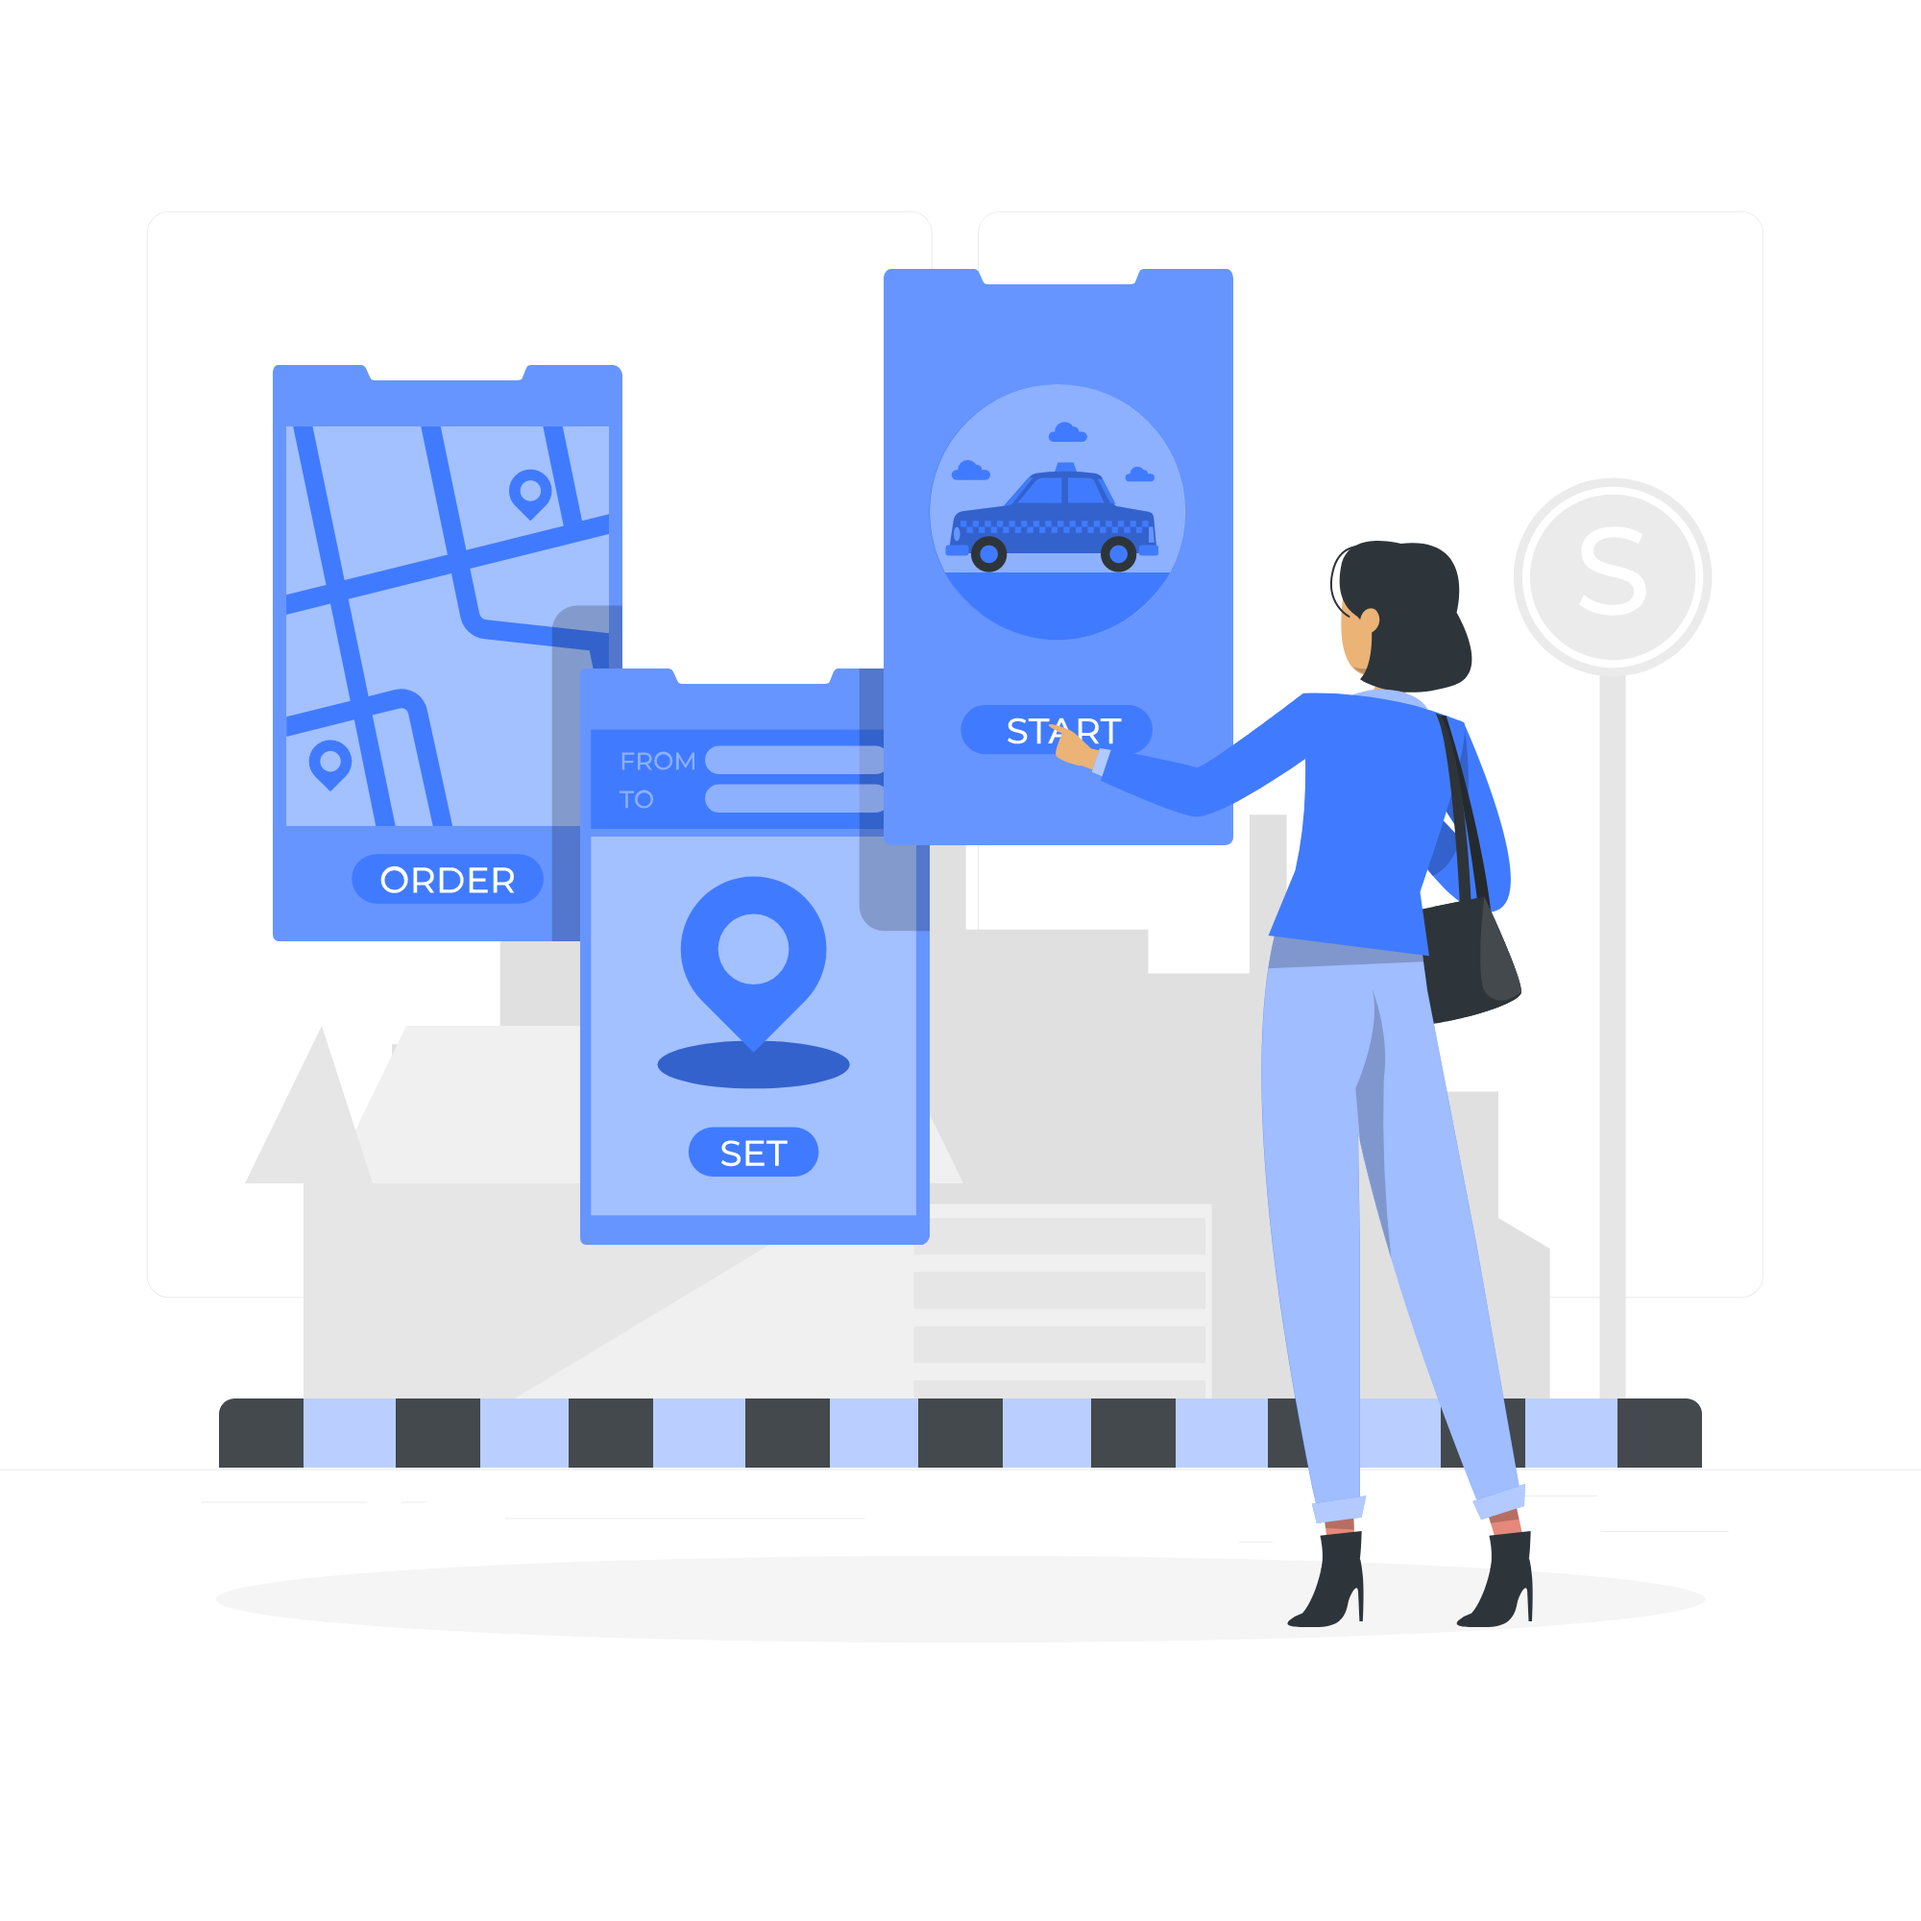
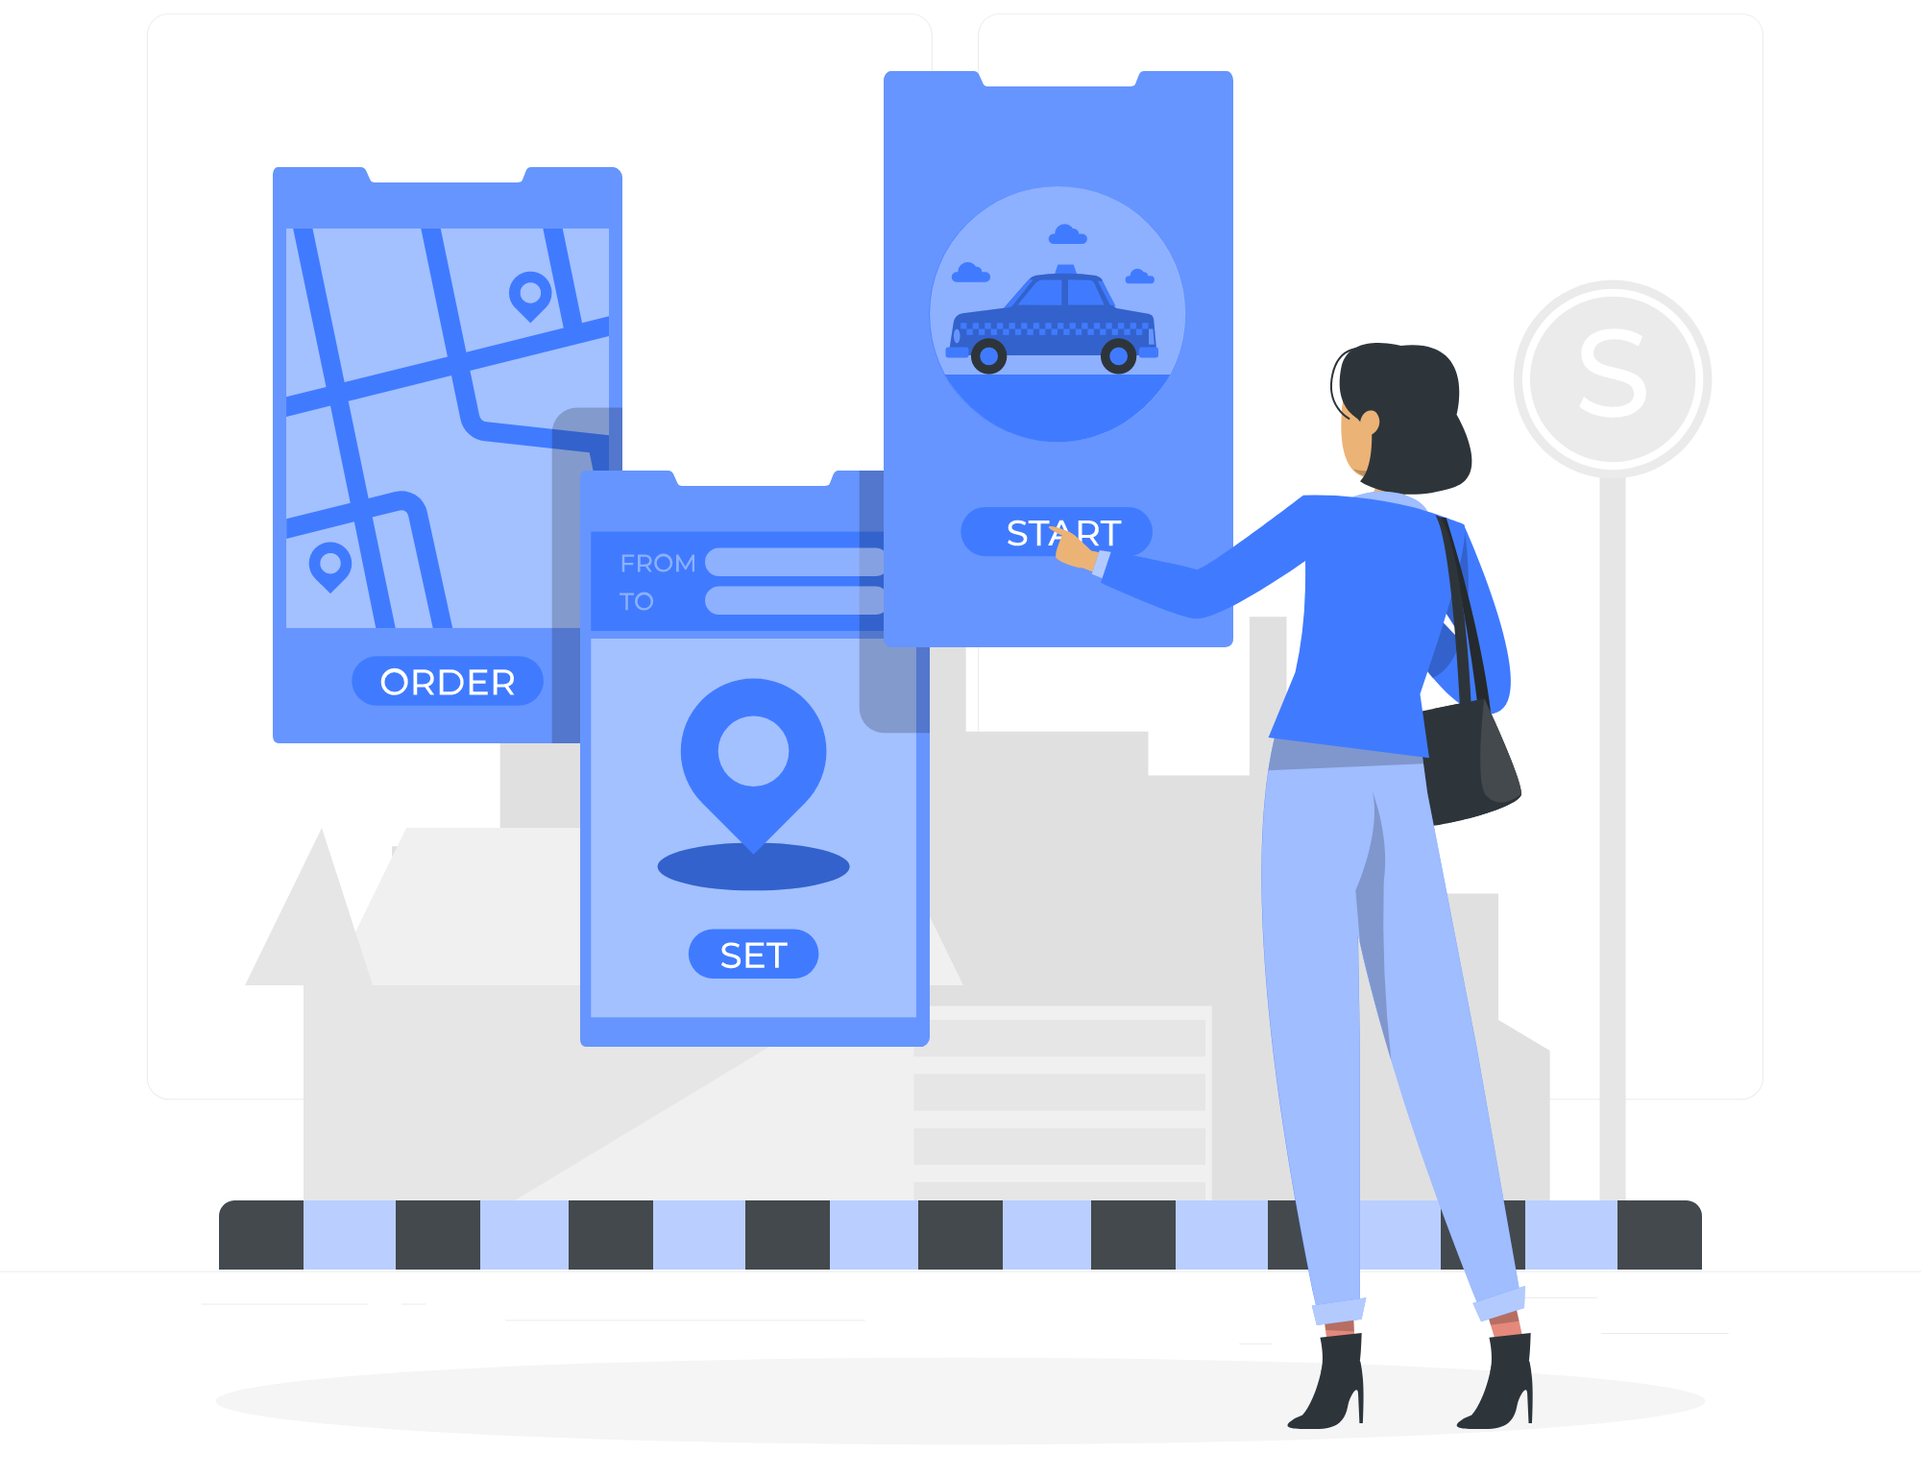
Atualização User Page v1
Atualização de responsividade, design, remodelagem do footer, e da responsividade do nav

Changed region(s): [[0.093, 0.0312, 0.899, 0.9675]]

diff --git a/user.php b/user.php
@@ -1,0 +1,361 @@
+<!DOCTYPE html>
+<html lang="pt-br">
+
+<head>
+  <meta charset="utf-8" />
+  <meta name="viewport" content="width=device-width, initial-scale=1, shrink-to-fit=no" />
+  <meta name="description" content="" />
+  <meta name="author" content="" />
+  <title>UpDown</title>
+  <link rel="icon" type="image/x-icon" href="assets/updown-logo.ico" />
+  <!-- Bootstrap icons-->
+  <link href="https://cdn.jsdelivr.net/npm/bootstrap-icons@1.5.0/font/bootstrap-icons.css" rel="stylesheet" />
+  <!-- Core theme CSS (includes Bootstrap)-->
+  <link href="css/styles.css" rel="stylesheet" />
+
+  <script src="https://code.jquery.com/jquery-3.2.1.slim.min.js" integrity="sha384-KJ3o2DKtIkvYIK3UENzmM7KCkRr/rE9/Qpg6aAZGJwFDMVNA/GpGFF93hXpG5KkN" crossorigin="anonymous"></script>
+<script src="https://cdnjs.cloudflare.com/ajax/libs/popper.js/1.12.9/umd/popper.min.js" integrity="sha384-ApNbgh9B+Y1QKtv3Rn7W3mgPxhU9K/ScQsAP7hUibX39j7fakFPskvXusvfa0b4Q" crossorigin="anonymous"></script>
+<script src="https://maxcdn.bootstrapcdn.com/bootstrap/4.0.0/js/bootstrap.min.js" integrity="sha384-JZR6Spejh4U02d8jOt6vLEHfe/JQGiRRSQQxSfFWpi1MquVdAyjUar5+76PVCmYl" crossorigin="anonymous"></script>
+</head>
+
+<style>
+  html,
+  body {
+    margin: 0;
+    padding: 0;
+    overflow-x: hidden;
+  }
+
+  .btnMotor:hover {
+    background-color: rgba(51, 190, 236, .5);
+  }
+
+  .masthead {
+
+    background-image: url("assets/img/logo/logo_af.png");
+  }
+
+  .apresentacao {
+    margin-left: 30px;
+  }
+  .TituloHeader {
+    font-size: 30%;
+  }
+
+  /* Responsividade */
+  @media (min-width: 360px) {
+    .apresentacao {
+      text-align: center;
+      margin-top: -25%;
+      z-index: 2;
+    }
+
+    .motorista {
+      padding: 15%;
+      margin-top: 135%;
+      position: absolute;
+    }
+  }
+
+  @media (min-width: 768px) {
+    .apresentacao {
+      margin-top: -10%;
+    }
+
+    .motorista {
+      margin-top: 20.8%;
+    }
+  }
+
+  @media (min-width: 992px) {
+    .apresentacao {
+      margin-top: 0;
+      margin-left: 3%;
+    }
+
+    .motorista {
+      margin-top: 2.6%;
+    }
+  }
+
+  @media (min-width: 1280px) and (max-width: 1365px) {
+
+    .apresentacao {
+      margin-top: 0;
+      margin-left: 3%;
+    }
+
+    .motorista {
+      margin-top: 17.1%;
+      margin-left: 30%;
+    }
+  }
+
+  @media (max-width: 1366px) {
+    .apresentacao {
+      margin-top: 0;
+      margin-left: 3%;
+    }
+
+    .motorista {
+      margin-top: 22.4%;
+      margin-left: 25%;
+    }
+  }
+
+
+</style>
+
+<body id="page-top">
+  <!-- Navigation-->
+   <nav class="navbar navbar-expand-lg navbar-light fixed-top shadow-lg-white" id="mainNav"> 
+    <div class="container px-3">
+      <a class="navbar-brand fw-bold upFont LogoTitleColor" href="index.php">
+        <img src="assets/img/logo/logoUpDown.png" id="logo" />
+        UpDown</a>
+      <button class="navbar-toggler" type="button" data-bs-toggle="collapse" data-bs-target="#navbarResponsive" aria-controls="navbarResponsive" aria-expanded="false" aria-label="Toggle navigation">
+        Menu
+        <i class="bi-list"></i>
+      </button>
+      <div class="collapse navbar-collapse" id="navbarResponsive">
+        <ul class="navbar-nav ms-auto me-4 my-3 my-lg-0">
+          <li class="nav-item">
+            <a class="nav-link me-lg-3" href="#motivo">Porque usar Updown</a>
+          </li>
+          <li class="nav-item">
+            <a class="nav-link me-lg-3" href="#categorias">Conheça as Modalidades</a>
+          </li>
+          <li class="nav-item">
+            <a class="nav-link me-lg-3" href="#footer">Baixe Agora</a>
+          </li>
+        </ul>
+        <!--<button class="btn btn-primary rounded-pill px-3 mb-2 mb-lg-0" data-bs-toggle="modal" data-bs-target="#feedbackModal">
+                        <span class="d-flex align-items-center">
+                            <i class="bi-chat-text-fill me-2"></i>
+                            <span class="small">Seja um Motorista!</span>
+                        </span>
+                    </button>-->
+      </div>
+    </div>
+  </nav>
+
+  <!-- Mashead header-->
+  <header class="masthead bg-gradient-blueUser text-center text-white" >
+    <div class="container" style=" padding-left: var(--bs-gutter-x, 1.75rem) !important;padding-right: var(--bs-gutter-x, 1.75rem) !important;">
+      <div class="row align-items-center justify-content-center">
+      <div class="col-12 col-lg-6 ">
+          <!-- Textos-->
+          <div class="mb-lg-0 text-start">
+            <h1 class="display-5 lh-1 mb-4 upFont">Faça entregas rápidas com a Updown!!</h1>
+            <p class="lead fw-light mb-5">
+            Aceitamos o envio de produtos de pequeno à grande porte
+          </p>
+          </div>
+        </div>
+        <div class="col-sm-10 col-md-6 mb-5 mt-0">
+          <img src="assets/img/users/userHeader.png" alt="Usuariosinho" style="max-width: 70%; max-height: 100%" />
+        </div>  
+      </div>
+    </div>
+  </header>
+
+  <!-- Carrossel -->
+  <div id="carouselUpdownUser" class="carousel slide carousel-fade p-5"  data-ride="carousel">
+    <!-- Imagens -->
+    <div class="carousel-inner p-5">
+      <!-- Primeira Imagem -->
+      <div class="carousel-item active" data-bs-interval="3000">
+        <img class="d-block w-100" src="assets/img/pitch/users/app01.jpg" alt="primeiro slide">
+      </div>
+      <!-- Segunda Imagem -->
+      <div class="carousel-item" data-bs-interval="3000">
+        <img class="d-block w-100" src="assets/img/pitch/users/app02.jpg" alt="segundo slide">
+      </div>
+      <!-- Terceira Imagem -->
+      <div class="carousel-item" data-bs-interval="3000">
+        <img class="d-block w-100" src="assets/img/pitch/users/app03.jpg" alt="terceiro slide">
+      </div>
+      <!-- quarta Imagem -->
+      <div class="carousel-item" data-bs-interval="3000">
+        <img class="d-block w-100" src="assets/img/pitch/users/app04.jpg" alt="quarto slide">
+      </div>
+      <!-- Quinta Imagem -->
+      <div class="carousel-item" data-bs-interval="3000">
+        <img class="d-block w-100" src="assets/img/pitch/users/app05.jpg" alt="Quinto slide">
+      </div>
+      <!-- Sexta Imagem -->
+      <div class="carousel-item" data-bs-interval="3000">
+        <img class="d-block w-100" src="assets/img/pitch/users/app06.jpg" alt="Sexto slide">
+      </div>
+      <!-- Sétima Imagem -->
+      <div class="carousel-item" data-bs-interval="3000">
+        <img class="d-block w-100" src="assets/img/pitch/users/app07.jpg" alt="Sétimo slide">
+      </div>
+      <!-- Oitava Imagem -->
+      <div class="carousel-item" data-bs-interval="3000">
+        <img class="d-block w-100" src="assets/img/pitch/users/app08.jpg" alt="oitavo slide">
+      </div>
+      <!-- Nona Imagem -->
+      <div class="carousel-item" data-bs-interval="3000">
+        <img class="d-block w-100" src="assets/img/pitch/users/app09.jpg" alt="nono slide">
+      </div>
+      <!-- Décima Imagem -->
+      <div class="carousel-item" data-bs-interval="3000">
+        <img class="d-block w-100" src="assets/img/pitch/users/app10.jpg" alt="Décimo slide">
+      </div>
+      <!-- Décima Primeira Imagem -->
+      <div class="carousel-item" data-bs-interval="3000">
+        <img class="d-block w-100" src="assets/img/pitch/users/app11.jpg" alt="Décimo Primeiro slide">
+      </div>      
+    </div>
+    <!-- Controladores -->
+    <!-- Anterior -->
+    <a class="carousel-control-prev" href="#carouselUpdownUser" role="button" data-slide="prev">
+      <span class="carousel-control-prev-icon" aria-hidden="true"></span>
+      <span class="sr-only"></span>
+    </a>
+    <!-- Próximo -->
+    <a class="carousel-control-next" href="#carouselUpdownUser" role="button" data-slide="next">
+      <span class="carousel-control-next-icon" aria-hidden="true"></span>
+      <span class="sr-only"></span>
+    </a>
+  </div>
+
+  <!-- Explicação -->
+  <div class="bg-gradient-white-to-gray ">
+    <div class="container p-5 text-muted " >
+      <!-- Preço Justo -->
+      <div class="row align-items-center justify-content-center" >
+        <div class="col-12 col-lg-6 h3 fw-light">
+          <p>Não se trata apenas de inovação, mas de acessibilidade para vocês. Com a gente, as entregas são mais
+            econômicas e seguras.</p>
+        </div>
+        <div class="col-sm-10 col-md-6 mb-5 mt-0" id="motivo">
+          <img src="assets/img/users/preco.png" alt="" style="max-width: 80%; margin-left: 50px">
+        </div>
+      </div>
+      <!-- Entregas Expressas -->
+      <div class="d-flex flex-column-reverse flex-lg-row  align-items-center justify-content-center" >
+        <div class="col-sm-10 col-md-6 mb-5 mt-0" >
+          <img src="assets/img/users/entregas_expressas.png" alt="" style="max-width: 80%; margin-left: 50px">
+        </div>
+        <div class="col-12 order-1 col-lg-6  h3 fw-light">
+          <p>Com a nossa frota de colaboradores, não precisa procurar por entregadores. Estaremos sempre disponíveis
+            para você com nossas entregas eficientes. </p>
+        </div>
+      </div>
+      <!-- Entregas Flexíveis -->
+      <div class="row align-items-center justify-content-center">
+        <div class="col-12 col-lg-6  h3 fw-light">
+          <p>Chega de problemas com frete. Com a gente não tem limite de carga, entregamos desde
+            envelope até mudança residencial.</p>
+        </div>
+        <div class="col-sm-10 col-md-6 mb-5 mt-0">
+          <img src="assets/img/users/entregas_flexiveis.png" alt="" style="max-width: 80%; margin-left: 50px">
+        </div>
+      </div>
+    </div>
+  </div>
+  <!-- Fim da Explicação -->
+
+  <!-- Categorias -->
+  <div class="
+  py-5
+  bg-darkBlue
+  text-light
+  " id="categorias">
+
+    <div class="py-3 mx-5">
+      <div class="row align-items-center justify-content-center">
+        <!-- Imagem Grandona -->
+        <div class="col-sm-10 col-md-6 mb-5 mt-0">
+          <img src="assets/img/users/categorias.png" alt="" 
+          style="max-width: 100%;">
+        </div>
+        <!-- Veículos -->
+        <div class="col-sm-6">
+          <!-- Moto -->
+          <div class="row px-3">
+            <p class="h4 upFont fw-bolder mb-0"><span>Moto</span></p>
+            <p><small class="h6 fw-light">Para pequenos produtos. Peça seu UpMoto para realizar as entregas mais rápidas do mercado, também
+                com a taxa de valor mais acessível.</small></p>
+          </div>
+          <!-- Carro -->
+          <div class="row px-3">
+            <p class="h4 upFont fw-bolder mb-0"><span>Carro</span></p>
+            <p><small class="h6 fw-light">Se seus produtos variam entre pequeno e médio porte, essa é a categoria ideal. Carros são
+                perfeitos para realizar uma entrega com maior segurança e lidar com materiais frágeis. Você pode
+                aproveitar para pedir uma carona. ;)</small></p>
+          </div>
+          <!-- Utilitário -->
+          <div class="row px-3">
+            <p class="h4 upFont fw-bolder mb-0"><span>Utilitário</span></p>
+            <p><small class="h6 fw-light">Se precisa entregar móveis e eletrônicos de grande porte, basta pedir um utilitário. Não deixamos
+                na mão quem precisa de ajuda mais robusta.</small></p>
+          </div>
+          <!-- Baú -->
+          <div class="row px-3 ">
+            <p class="h4 upFont fw-bolder mb-0"><span>Baú</span></p>
+            <p><small class="h6 fw-light">Está de mudança? Pois aqui está a solução do seu frete! Nossos colaboradores Baú são perfeitos
+                para quem precisa transportar vários produtos simultaneamente.</small></p>
+          </div>
+        </div>
+
+      </div>
+    </div>
+    <!-- Fim dos Ícones -->
+  </div>
+  <!-- Fim das Categorias -->
+
+  <!-- Baixe o Aplicativo-->
+  <section class="userCta" id="download">
+    <div class="cta-content mb-6">
+      <div class="container px-5 py-7">
+        <h2 class="text-white display-1 lh-1 upFont">
+          Impulsione agora
+          <br />
+          as suas entregas.
+        </h2>
+        
+        <!-- <a class="btn btn-outline-light py-3 px-4 my-3 rounded-pill" href="#!" target="_blank">Baixe agora nosso aplicativo!</a> -->
+      </div>
+    </div>
+    <div class="bg-gradient-primary-to-secondary-tp mt-5"id="download">
+        <div class="container px-5 text-center">
+            <h1 class="text-center text-white font-alt mb-3 fw-bold">Baixe agora o nosso aplicativo!</h1>
+            <div class="d-flex flex-column flex-lg-row align-items-center justify-content-center">
+                <div>
+                <h4><p class="text-white fw-lighter" id="footer">Seja um Usuário: </p></h4>
+                <a class=" text-center me-lg-3 mb-5 mb-lg-4" href="https://play.google.com/store/apps/details?id=com.updownuser"><img class="app-badge" src="assets/img/pt-br_badge_web_generic.png" alt="Updown Usuários" /></a>
+                </div>
+            </div>
+        </div>
+        </div>
+  </section>
+  <!-- Fim do "Baixe o Aplicativo" -->
+
+  <!-- Footer-->
+  <footer class="bg-black text-center py-4">
+        <div class="container px-5">
+            <div class="text-white-50 small">
+                <div class="mb-2">&copy; 2021 Updown - todos os direitos reservados.</div>
+                <a href="assets/docs/Politica.pdf" target="_blank">Política de Privacidade</a>
+                <span class="mx-1">&middot;</span>
+                <a href="assets/docs/termos de uso - clientes.pdf" target="_blank">Termos de Uso - Usuários</a>
+                <span class="mx-1">&middot;</span>
+                <a href="assets/docs/termos de uso - entregador.pdf.pdf" target="_blank">Termos de Uso - Entregadores</a>
+            </div>
+        </div>
+    </footer>
+  <!-- Bootstrap core JS-->
+  <script src="https://cdn.jsdelivr.net/npm/bootstrap@5.0.2/dist/js/bootstrap.bundle.min.js"></script>
+  <!-- Core theme JS-->
+  <script src="js/scripts.js"></script>
+  <!-- * * * * * * * * * * * * * * * * * * * * * * * * * * * * * * * * * * * * * * * *-->
+  <!-- * *                               SB Forms JS                               * *-->
+  <!-- * * Activate your form at https://startbootstrap.com/solution/contact-forms * *-->
+  <!-- * * * * * * * * * * * * * * * * * * * * * * * * * * * * * * * * * * * * * * * *-->
+  <!-- <script src="https://cdn.startbootstrap.com/sb-forms-latest.js"></script> -->
+</body>
+
+</html>
